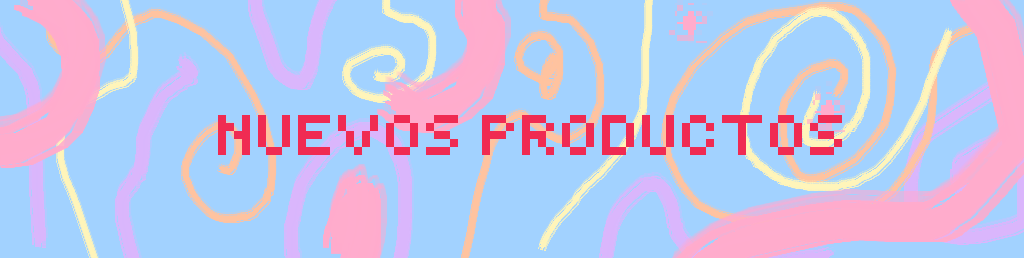
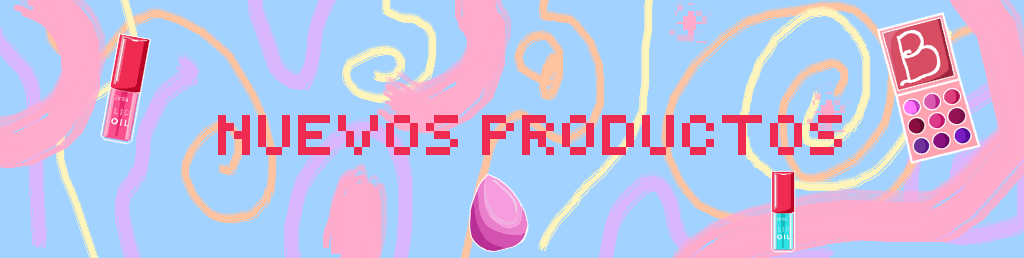
Agrego carrusel diseño

diff --git a/public/css/style.css b/public/css/style.css
@@ -1,106 +1,75 @@
-/* Fuentes foraneas a las del dispositivo */
+/* Fuentes foráneas */
 @font-face {
     font-family: 'FuentePrincipal';
-    src:  url('../fuentes/transfonter.org-20250306-163634/Pixel-Noir-Caps.woff2') format('woff2'),
-    url('../fuentes/transfonter.org-20250306-163634/Pixel-Noir-Caps.woff')  format('woff'), 
-    url('../fuentes/Pixel-Noir\ Caps.ttf') format('truetype');
-}
-@font-face {
+    src: url('../fuentes/transfonter.org-20250306-163634/Pixel-Noir-Caps.woff2') format('woff2'),
+         url('../fuentes/transfonter.org-20250306-163634/Pixel-Noir-Caps.woff') format('woff'),
+         url('../fuentes/Pixel-Noir Caps.ttf') format('truetype');
+  }
+  @font-face {
     font-family: 'FuenteSegundaria';
     src: url('../fuentes/transfonter.org-20250306-163634/Pixel-Noir-Skinny-Caps.woff2') format('woff2'),
-    url('../fuentes/transfonter.org-20250306-163634/Pixel-Noir-Skinny-Caps.woff') format('woff'),
-    url('../fuentes/Pixel-Noir\ Skinny\ Caps.ttf') format('truetype');
-}
-@font-face {
+         url('../fuentes/transfonter.org-20250306-163634/Pixel-Noir-Skinny-Caps.woff') format('woff'),
+         url('../fuentes/Pixel-Noir Skinny Caps.ttf') format('truetype');
+  }
+  @font-face {
     font-family: 'FuenteTerciaria';
     src: url('../fuentes/transfonter.org-20250306-163634/Pixel-Noir-Skinny.woff2') format('woff2'),
-    url('../fuentes/transfonter.org-20250306-163634/Pixel-Noir-Skinny.woff') format('woff'),
-    url('../fuentes/Pixel-Noir\ Skinny.ttf') format('truetype');
-}
-
-/* Animación de Slider de barra de búsqueda */
-@keyframes slider {
-    0% {transform: translateY(-85px);}
-    5% {transform: translateY(0px);}
-    30% {transform: translateY(0px);}
-    35% {transform: translateY(85px);}
-    65% {transform: translateY(85px);}
-    75% {transform: translateY(170px);}
-    100% {transform: translateY(170px);}
-}
-
-/* Quitar margin y padding por defecto */
-* {
+         url('../fuentes/transfonter.org-20250306-163634/Pixel-Noir-Skinny.woff') format('woff'),
+         url('../fuentes/Pixel-Noir Skinny.ttf') format('truetype');
+  }
+  
+  /* Reset general y fuente base */
+  * {
     margin: 0;
     padding: 0;
     box-sizing: border-box;
-}
-
-/* Fuente por defecto de toda la página */
-body {
+  }
+  body {
     font-family: 'FuenteSegundaria', sans-serif;
-    overflow-x: hidden; /* Evitar que se desborde horizontalmente */
-}
-
-/* Diseño de "Brilla" */
-nav ul #Brilla {
-    font-family: 'FuentePrincipal', sans-serif;
-    display: flex;
-    align-items: center;
-    font-size: 35px;
-    gap: 10px; 
-}
-
-/* Estilo de las direcciones en el header */
-header .direcciones {
-    background-color: rgb(255,116,148,255);
+    overflow-x: hidden;
+  }
+  
+  /* Encabezado y barra de búsqueda */
+  header .direcciones {
+    background-color: rgba(255,116,148,1);
     font-family: 'FuenteTerciaria', sans-serif;
     padding: 3px;
     font-size: 12px;
-    color: rgb(255, 255, 255);
-}
-
-/* Barra de inicio */
-.BarraInicio {
+    color: #fff;
+  }
+  nav.BarraInicio {
     display: flex;
-    background-color: rgba(255,174,201,255);
-    color: white;
+    background-color: rgba(255,174,201,1);
+    color: #fff;
     padding: 20px;
     align-items: center;
     justify-content: space-between;
-    flex-wrap: nowrap;
     gap: 20px;
-}
-
-/* Alineación del icono de "Brilla" */
-header #Brilla::before {
-    content: " ";
-    display: inline-block;
-    width: 80px;
-    height: 80px;
-    background: url('../pixeles/brilla.png') no-repeat center;
-    background-size: contain;
-    margin-right: 10px;
-}
-/* Estilo de las etiquetas en la barra de navegación */
-nav ul {
+  }
+  nav ul {
     list-style: none;
     display: flex;
     align-items: center;
     gap: 15px;
-}
-
-/* Estilo de los enlaces de la navegación */
-nav a {
+  }
+  nav ul h1#Brilla {
+    font-family: 'FuentePrincipal', sans-serif;
+    font-size: 35px;
+    display: flex;
+    align-items: center;
+    gap: 10px;
+  }
+  nav a,
+  nav li a {
     font-size: 14px;
     color: rgb(95, 31, 70);
     text-decoration: none;
     white-space: nowrap;
-    
-}
-/* Barra de búsqueda */
-.BarraBusqueda {
-    background: white;
+  }
+  
+  /* Barra de búsqueda con slider interno */
+  .BarraBusqueda {
+    background: #fff;
     max-width: 400px;
     padding: 15px;
     display: flex;
@@ -110,86 +79,127 @@ nav a {
     position: relative;
     overflow: hidden;
     flex-grow: 1;
-}
-
-.BarraBusqueda input {
+  }
+  .BarraBusqueda input {
     flex: 1;
     padding: 10px;
-    border: 0;
-    outline: 0;
+    border: none;
+    outline: none;
     background: transparent;
     font-size: 16px;
-}
-
-.BarraBusqueda button img {
-    width: 30px;
-}
-
-.BarraBusqueda button {
+  }
+  .BarraBusqueda button {
     padding: 5px 8px;
     border: none;
-    outline: 0;
+    outline: none;
     background: transparent;
     cursor: pointer;
-}
-
-/* Slider */
-.slider {
+  }
+  .BarraBusqueda button img {
+    width: 30px;
+  }
+  /* Animación para el slider interno de la barra de búsqueda */
+  @keyframes slider {
+    0% { transform: translateY(-85px); }
+    5% { transform: translateY(0px); }
+    30% { transform: translateY(0px); }
+    35% { transform: translateY(85px); }
+    65% { transform: translateY(85px); }
+    75% { transform: translateY(170px); }
+    100% { transform: translateY(170px); }
+  }
+  .slider {
     position: absolute;
     bottom: 0;
     left: 130px;
     animation: slider 5s linear infinite;
-    
-}
-
-.slider div {
+  }
+  .slider div {
     height: 80px;
     display: flex;
     align-items: center;
-}
-
-.slider img {
+  }
+  .slider img {
     width: 38px;
-}
-
-.carrito{
+  }
+  
+  /* Botón carrito */
+  .carrito {
     padding: 5px 8px;
     background: none;
     border: none;
     cursor: pointer;
-}
-.carrito img {
+  }
+  .carrito img {
     width: 50px;
-}
-/* Responsive: Ajustes para pantallas pequeñas */
-@media (max-width: 768px) {
-    .BarraInicio {
-        flex-direction: column;
-        align-items: center;
-    }
-
-    .navbar-container {
-        flex-direction: column;
-        align-items: center;
-    }
-
-    .BarraBusqueda {
-        max-width: 100%;
-    }
-}
-
-@media (max-width: 480px) {
-    nav ul {
-        flex-direction: column;
-        align-items: center;
-        gap: 5px;
-    }
-
-    nav a {
-        font-size: 14px;
-    }
-
-    .BarraBusqueda input {
-        font-size: 14px;
-    }
-}
+  }
+  
+  /* Carrusel Principal */
+  .contenedorCarrusel {
+    position: relative;
+    width: 100%;
+    height: 60vh;
+    overflow: hidden;
+    background: rgba(255,174,201,1);
+    display: flex;
+    align-items: center;
+    justify-content: center;
+  }
+  .carruseles {
+    width: 300%;
+    height: 100%;
+    display: flex;
+    transition: transform 0.5s ease-in-out;
+  }
+  .slider-section {
+    width: calc(100% / 3);
+    height: 100%;
+  }
+  .slider-section img {
+    width: 100%;
+    height: 100%;
+    object-fit: cover;
+    display: block;
+  }
+  
+  /* Botones de navegación */
+  .btnIzquierda,
+  .btnDerecha {
+    position: absolute;
+    top: 50%;
+    transform: translateY(-50%);
+    background: transparent;
+    border: none;
+    cursor: pointer;
+    z-index: 10;
+    width: 50px;
+    height: 50px;
+    display: flex;
+    align-items: center;
+    justify-content: center;
+  }
+  .btnIzquierda { left: 10px; }
+  .btnDerecha { right: 10px; }
+  .btnIzquierda img,
+  .btnDerecha img {
+    width: 100%;
+    height: auto;
+    user-select: none;
+    transition: transform 0.3s;
+  }
+  .btnIzquierda img:hover,
+  .btnDerecha img:hover {
+    transform: scale(1.1);
+  }
+  
+  /* Responsive */
+  @media (max-width: 768px) {
+    .BarraInicio { flex-direction: column; align-items: center; }
+    .BarraBusqueda { max-width: 100%; }
+  }
+  @media (max-width: 480px) {
+    nav ul { flex-direction: column; align-items: center; gap: 5px; }
+    nav a, nav li a { font-size: 14px; }
+    .BarraBusqueda input { font-size: 14px; }
+  }
+  

diff --git a/public/index.html b/public/index.html
@@ -39,10 +39,12 @@
     </header>
     <div class="contenedorCarrusel">
         <div class="carruseles">
-            <section><img src="pixeles/CarruselBienvenida.png" alt="ImagenBienvenida"></section>
-            <section><img src="pixeles/CarruselDos.png" alt="productosNuevos"></section>
-            <section></section>
+            <section class="slider-section"><img src="pixeles/CarruselBienvenida.png" alt="ImagenBienvenida"></section>
+            <section class="slider-section"><img src="pixeles/CarruselDos.png" alt="productosNuevos"></section>
+            <section class="slider-section"><img src="pixeles/CarruselTres.png" alt="ProductosPromo"></section>
         </div>
+        <div class="btnIzquierda"><img src="pixeles/simbolo-menor-que.png" alt=""></div>
+        <div class="btnDerecha"><img src="pixeles/mayor-que-el-simbolo.png" alt=""></div>
     </div>
     <script src="js/script.js"></script>
 </body>
